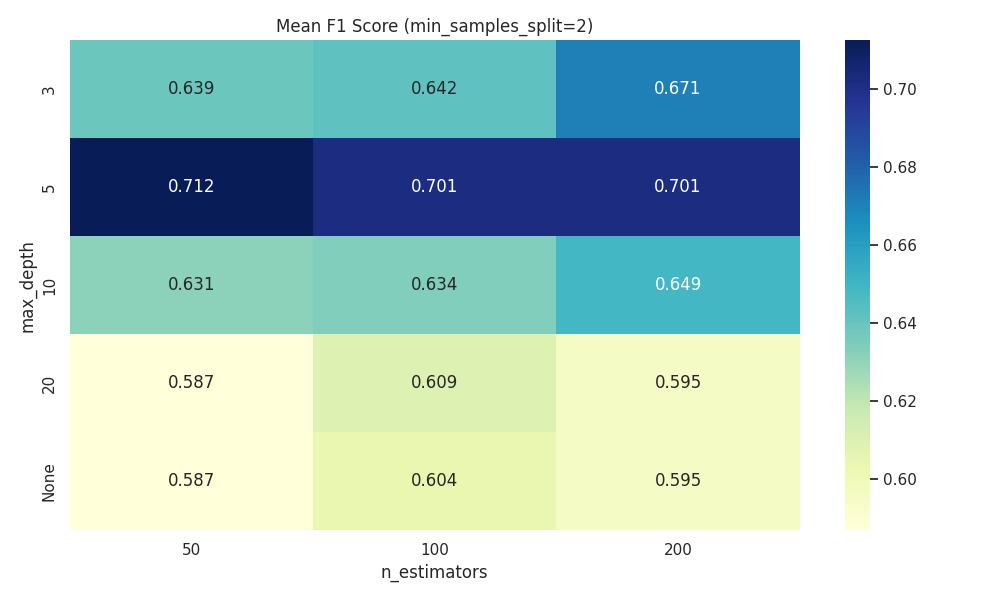
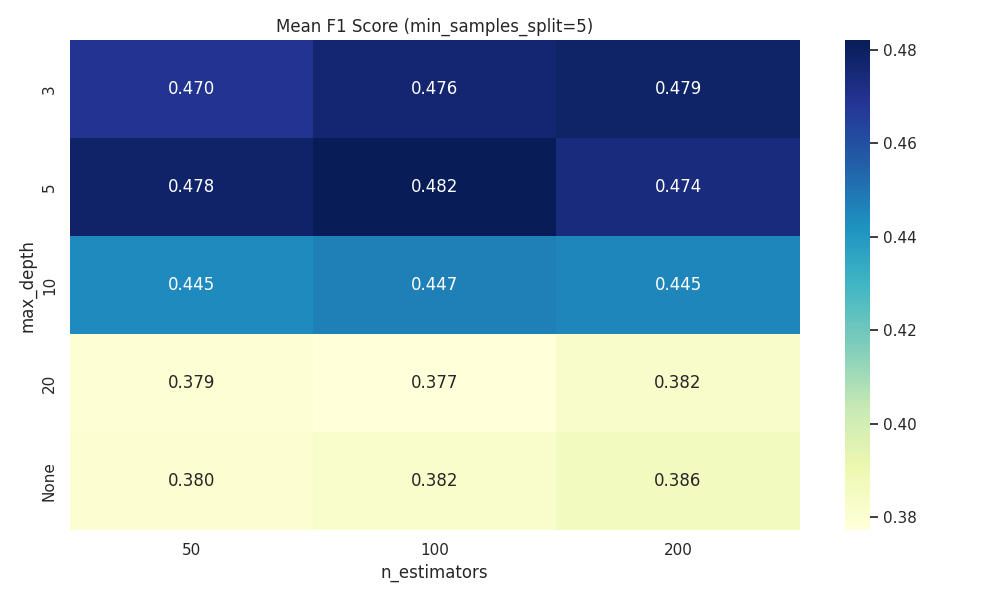
Fix: Accendiantly used a mock data instead of the data needed.

diff --git a/churn_nested_cv.py b/churn_nested_cv.py
@@ -11,26 +11,25 @@ from sklearn.metrics import f1_score
 # Set plotting style
 sns.set_theme(style="whitegrid")
 
-# =============================================================================
-# DATASET SIMULATION
-# =============================================================================
-# Simulating a telecom churn dataset: 1000 samples, 20 features, binary target
-# We use a slight imbalance (80/20) to mimic churn behavior.
-X, y = make_classification(
-    n_samples=1000, 
-    n_features=20, 
-    n_informative=15, 
-    n_redundant=5, 
-    weights=[0.8, 0.2], 
-    flip_y=0.05, 
-    random_state=42
-)
-feature_names = [f"feature_{i}" for i in range(20)]
-df = pd.DataFrame(X, columns=feature_names)
-df['target'] = y
+
+data = pd.read_csv('data/telecom_churn.csv')
+df = data.drop(columns=['customer_id'])
+
+# 1. Preprocessing: Convert total_charges to numeric and handle missing values
+df['total_charges'] = pd.to_numeric(df['total_charges'], errors='coerce')
+df = df.dropna()
+
+# 2. Encode categorical variables
+df = pd.get_dummies(df, drop_first=True)
+
+y = df['churned'].values
+X = df.drop(columns=['churned']).values
 
 print(f"Dataset Shape: {X.shape}")
 print(f"Class Distribution:\n{pd.Series(y).value_counts(normalize=True)}")
+
+
+
 
 # =============================================================================
 # PART 1 — GridSearchCV (Random Forest)
@@ -50,9 +49,9 @@ param_grid = {
 cv_inner = StratifiedKFold(n_splits=5, shuffle=True, random_state=42)
 
 grid_search = GridSearchCV(
-    estimator=rf,
+    estimator=RandomForestClassifier(class_weight='balanced', random_state=42),
     param_grid=param_grid,
-    cv=cv_inner,
+    cv=StratifiedKFold(n_splits=5, shuffle=True, random_state=42),
     scoring='f1',
     n_jobs=-1,
     return_train_score=True
